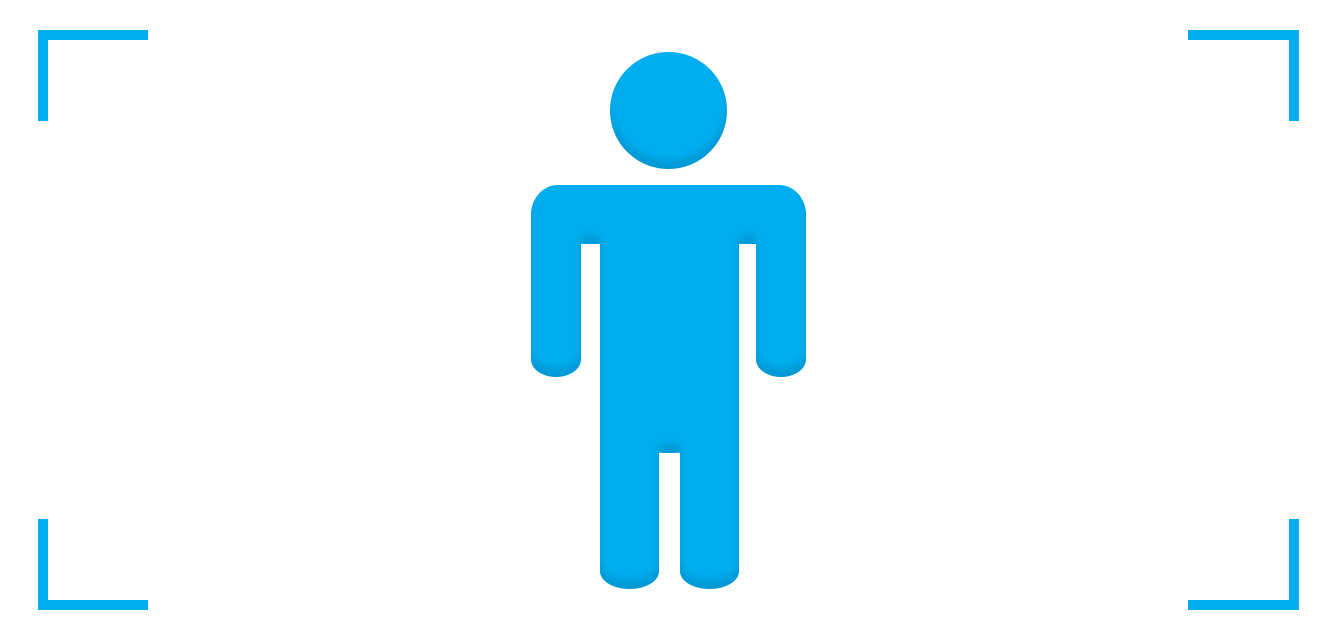
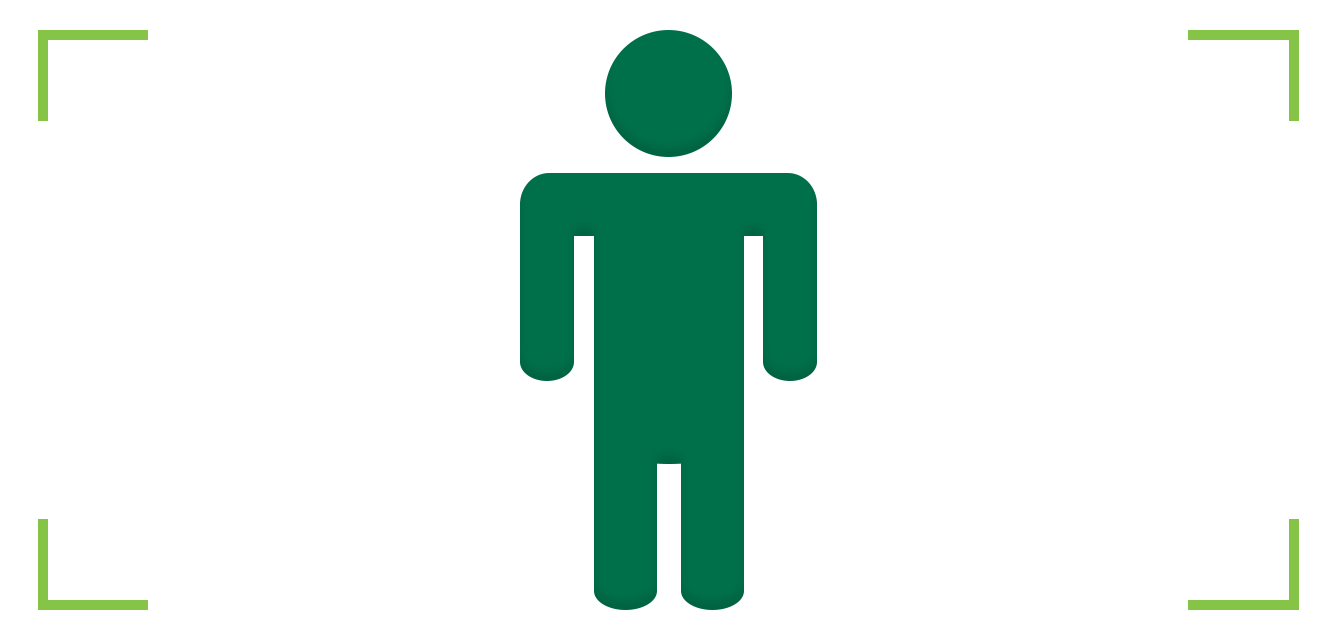
updated graphics, button style, and page layout

diff --git a/www/js/controllers.js b/www/js/controllers.js
@@ -83,7 +83,7 @@ angular.module('starter.controllers', [])
      { title: 'Extreme Closeup', description: 'Single feature of subject head', id:6},
    ],
    [
-     { title: 'Head On', description: 'Camera level with subject', id:7},
+     { title: 'Eye Level', description: 'Camera level with subject', id:7},
      { title: 'High Angle', description: 'Camera pointed down on subject', id:8},
      { title: 'Low Angle', description: 'Camera pointed up on subject', id:9},
      { title: 'Overhead', description: 'Camera directly above subject', id:10},
@@ -96,10 +96,10 @@ angular.module('starter.controllers', [])
 
 .controller('DefinitionCtrl',function($scope, $stateParams){
   $scope.definitionSet = [
-    [{definition: 'The Extreme Longshot is taken so far away from the subject that their features are no longer visible. This is used to create a sense of a character being lost or almost engulfed by the sheer size of their surroundings. Which can result in a character being made small or insignificant due to their situation', pictureFileName: '', graphic: '/img/graphics/ExtremeLongshot.png'}],
-    [{definition: 'Typically shows the entire object or human figure and is usually intended to place it in some relation to its surroundings.', pictureFileName: '/img/Longshot.jpg', graphic: '/img/graphics/Longshot.png'}],
-    [{definition: 'Captures subject’s knees and upward. shows a bit more of the background but is still close enough for facial expressions to be seen.', pictureFileName: '', graphic: '/img/graphics/MediumLongshot.png'}],
-    [{definition: 'Captures subject’s waist and upward. In principal, the medium shot is what can be seen with the human eye in a single quick glance and convey all the action taking place in that field of view.', pictureFileName: '', graphic: '/img/graphics/MediumShot.png'}],
+    [{definition: 'The Extreme Longshot is taken so far away from the subject that their features are no longer visible. This is used to create a sense of a character being lost or almost engulfed by the sheer size of their surroundings. Which can result in a character being made small or insignificant due to their situation', pictureFileName: '', graphic: 'img/graphics/ExtremeLongshot.png'}],
+    [{definition: 'Typically shows the entire object or human figure and is usually intended to place it in some relation to its surroundings.', pictureFileName: '/img/Longshot.jpg', graphic: 'img/graphics/Longshot.png'}],
+    [{definition: 'Captures subject’s knees and upward. shows a bit more of the background but is still close enough for facial expressions to be seen.', pictureFileName: '', graphic: 'img/graphics/MediumLongshot.png'}],
+    [{definition: 'Captures subject’s waist and upward. In principal, the medium shot is what can be seen with the human eye in a single quick glance and convey all the action taking place in that field of view.', pictureFileName: '', graphic: 'img/graphics/Mediumshot.png'}],
     [{definition: 'Halfway between a mid shot and a close-up. Usually covers the subject’s head and shoulders.', pictureFileName: '', graphic: 'img/graphics/MediumCloseup.png'}],
     [{definition: 'Close-ups display the most detail, but they do not include the broader scene.', pictureFileName:'/img/CloseUpShot.jpg', graphic: 'img/graphics/Closeup.png'}],
     [{definition: 'The shot is so tight that only a detail of the subject, such as someone’s eyes, can be seen.', pictureFileName:'', graphic: 'img/graphics/ExtremeCloseup.png'}],

diff --git a/www/templates/definitions.html b/www/templates/definitions.html
@@ -1,9 +1,19 @@
 <ion-view view-title="Definitions">
   <ion-content>
       <ion-item class="item-text-wrap" ng-repeat="definitionSet in definitionSet[id]">
-        <div><p>{{definitionSet.definition}}</p></div>
-        <img src={{definitionSet.graphic}} alt={{definitionSet.definition}} />
+
+        <p class = "definitionText">{{definitionSet.definition}}</p>
+        <img class = "myImage" src={{definitionSet.graphic}} alt={{definitionSet.definition}}/>
+
+        <div class= "col" style = "text-align:center">
+        <button class = "myButton" ng-click="takePicture()"> Camera </button>
+      </div>
+
       </ion-item>
-      <button ion-button round ng-click="takePicture()"> Camera </button>
+
+      <ion-item>
+        <h1 class = "headerText"> Your Examples </h1>
+      </ion-item>
+    </div>
   </ion-content>
 </ion-view>

diff --git a/www/css/style.css b/www/css/style.css
@@ -1,5 +1,40 @@
 /* Empty. Add your own CSS if you like */
-img{
+
+.myButton {
+	background-color:#00704a;
+	-moz-border-radius:28px;
+	-webkit-border-radius:28px;
+	border-radius:28px;
+	border:1px solid #85c446;
+	cursor:pointer;
+	color:#ffffff;
+	font-family:Arial;
+	font-size:17px;
+	padding:16px 31px;
+	text-decoration:none;
+	text-shadow:0px 1px 0px #2f6627;
+  position:relative;
+  top:10px;
+}
+
+.myButton:active {
+	position:relative;
+  background-color:#85c446;
+	top:12px;
+}
+
+.myImage {
+  display: block;
+  margin: auto;
   max-width: 50%;
-  max-height: 50%;
+}
+
+.headerText {
+  font-family:Arial;
+  text-align: center;
+  color: #00704a;
+}
+
+.definitionText {
+  text-align: center;
 }
